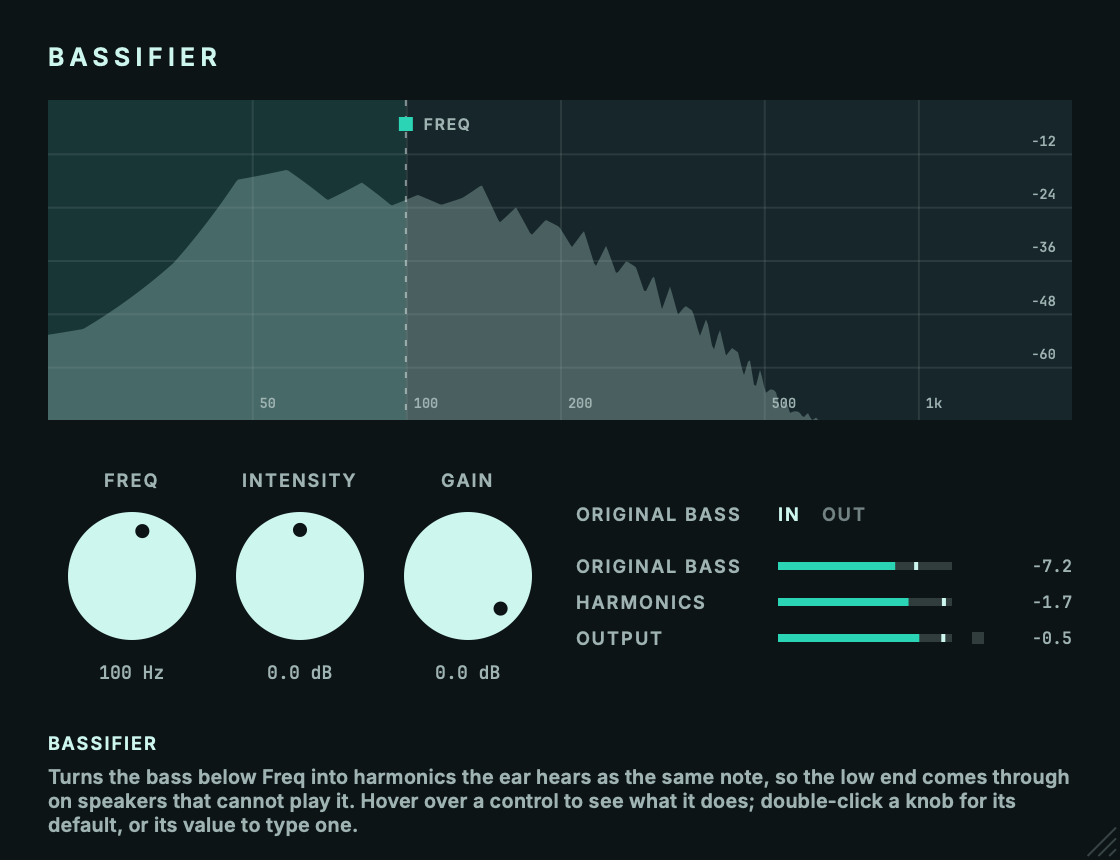
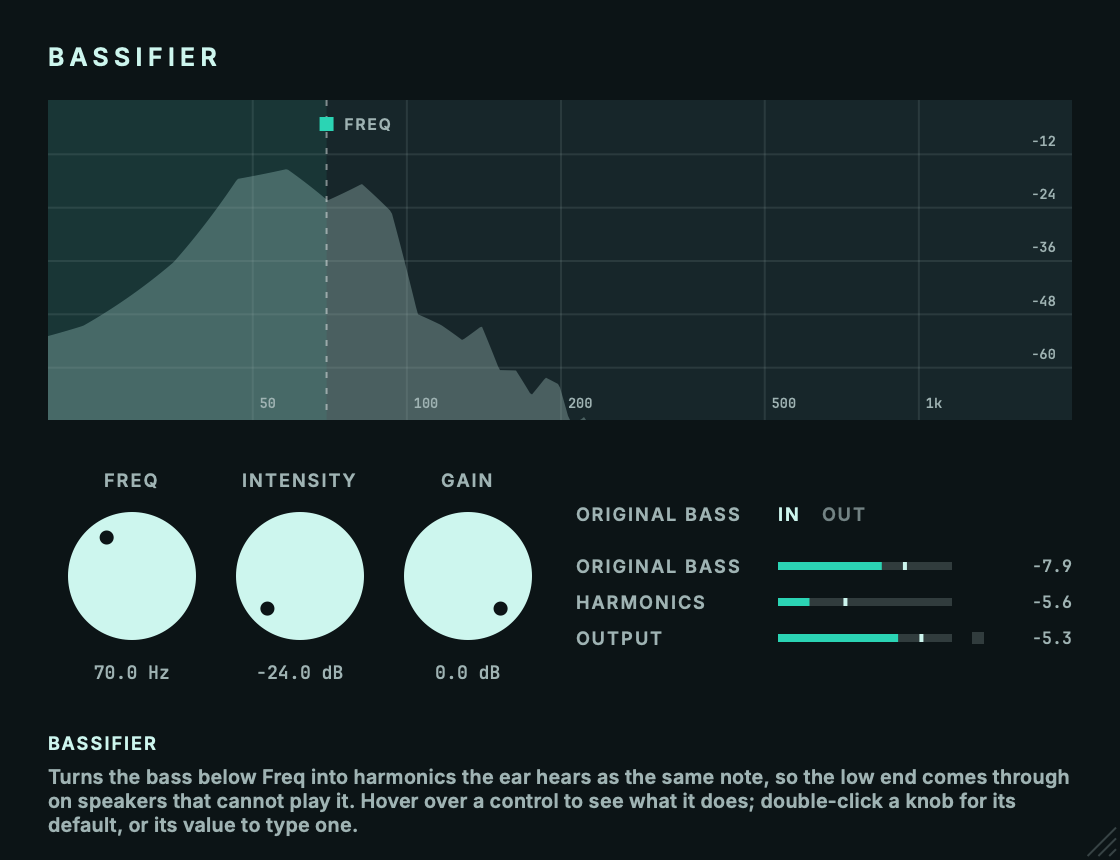
feat: default Freq to 70 Hz and Intensity to -24 dB
A new instance now starts near-transparent. No DSP change; saved
sessions keep their values. Version 0.1.1.

diff --git a/Source/PluginProcessor.cpp b/Source/PluginProcessor.cpp
@@ -30,20 +30,20 @@ juce::AudioProcessorValueTreeState::ParameterLayout BassifierProcessor::createLa
 
     juce::AudioProcessorValueTreeState::ParameterLayout layout;
 
-    // Freq is logarithmic across its three octaves, so 100 Hz sits a little past the middle.
+    // Freq is logarithmic across its three octaves, so 70 Hz sits a little below the middle.
     Range freqRange (32.0f, 256.0f,
                      [] (float start, float end, float n) { return start * std::pow (end / start, n); },
                      [] (float start, float end, float v) { return std::log (v / start) / std::log (end / start); },
                      [] (float start, float end, float v) { return juce::jlimit (start, end, std::round (v * 10.0f) * 0.1f); });
 
-    layout.add (std::make_unique<Float> (juce::ParameterID { ParamID::freq, 1 }, "Freq", freqRange, 100.0f,
+    layout.add (std::make_unique<Float> (juce::ParameterID { ParamID::freq, 1 }, "Freq", freqRange, 70.0f,
                                          Attributes().withLabel ("Hz").withStringFromValueFunction ([] (float v, int)
                                          {
                                              return (v < 99.95f ? juce::String (v, 1) : juce::String (juce::roundToInt (v))) + " Hz";
                                          })));
 
     layout.add (std::make_unique<Float> (juce::ParameterID { ParamID::intensity, 1 }, "Intensity",
-                                         Range (-24.0f, 24.0f, 0.1f), 0.0f,
+                                         Range (-24.0f, 24.0f, 0.1f), -24.0f,
                                          Attributes().withLabel ("dB").withStringFromValueFunction ([] (float v, int) { return dbText (v, true); })));
 
     layout.add (std::make_unique<juce::AudioParameterBool> (juce::ParameterID { ParamID::originalBass, 1 }, "Original Bass", true,

diff --git a/tests/plugin_smoke.cpp b/tests/plugin_smoke.cpp
@@ -118,8 +118,8 @@ int main()
     std::printf ("Bassifier JUCE host/state smoke test\n");
     check (processor.getLatencySamples() == 0, "reports zero latency");
     check (processor.getParameters().size() == 4, "publishes exactly four parameters");
-    checkParameter (processor, ParamID::freq, 32.0f, 256.0f, 100.0f);
-    checkParameter (processor, ParamID::intensity, -24.0f, 24.0f, 0.0f);
+    checkParameter (processor, ParamID::freq, 32.0f, 256.0f, 70.0f);
+    checkParameter (processor, ParamID::intensity, -24.0f, 24.0f, -24.0f);
     checkParameter (processor, ParamID::originalBass, 0.0f, 1.0f, 1.0f);
     checkParameter (processor, ParamID::gain, -60.0f, 0.0f, 0.0f);
 

diff --git a/Source/PluginEditor.h b/Source/PluginEditor.h
@@ -118,7 +118,7 @@ private:
     double sampleRate = 48000.0;
 
     juce::RangedAudioParameter& freq;
-    float freqHz = 100.0f;
+    float freqHz = 70.0f;
     bool dragging = false;
     juce::ParameterAttachment attachment;
 };

diff --git a/RELEASE_NOTES.md b/RELEASE_NOTES.md
@@ -1,5 +1,16 @@
 # Bassifier release notes
 
+## v0.1.1
+
+Patch release: new defaults so a new instance starts near-transparent.
+
+- New defaults: Freq 70 Hz (was 100 Hz) and Intensity -24 dB (was 0 dB). Sessions saved with v0.1.0 keep their stored values.
+- No DSP change; parameter IDs, ranges and identity are unchanged.
+- macOS Universal: AU and VST3, arm64 + x86_64; ad-hoc signed, not notarized.
+- Windows x64: VST3, unsigned; requires the Microsoft Visual C++ x64 Redistributable.
+- macOS checks: CTest 3/3 passed (DSP evaluation, plug-in smoke, snapshot render); editor snapshot shows FREQ 70.0 Hz and INTENSITY -24.0 dB; arm64 + x86_64 slices confirmed in the AU and VST3 builds.
+- Windows: CTest result pending.
+
 ## v0.1.0
 
 Bassifier is a psychoacoustic bass enhancer. It rebuilds the bass below a chosen frequency as harmonics so the low end is heard on small speakers.
